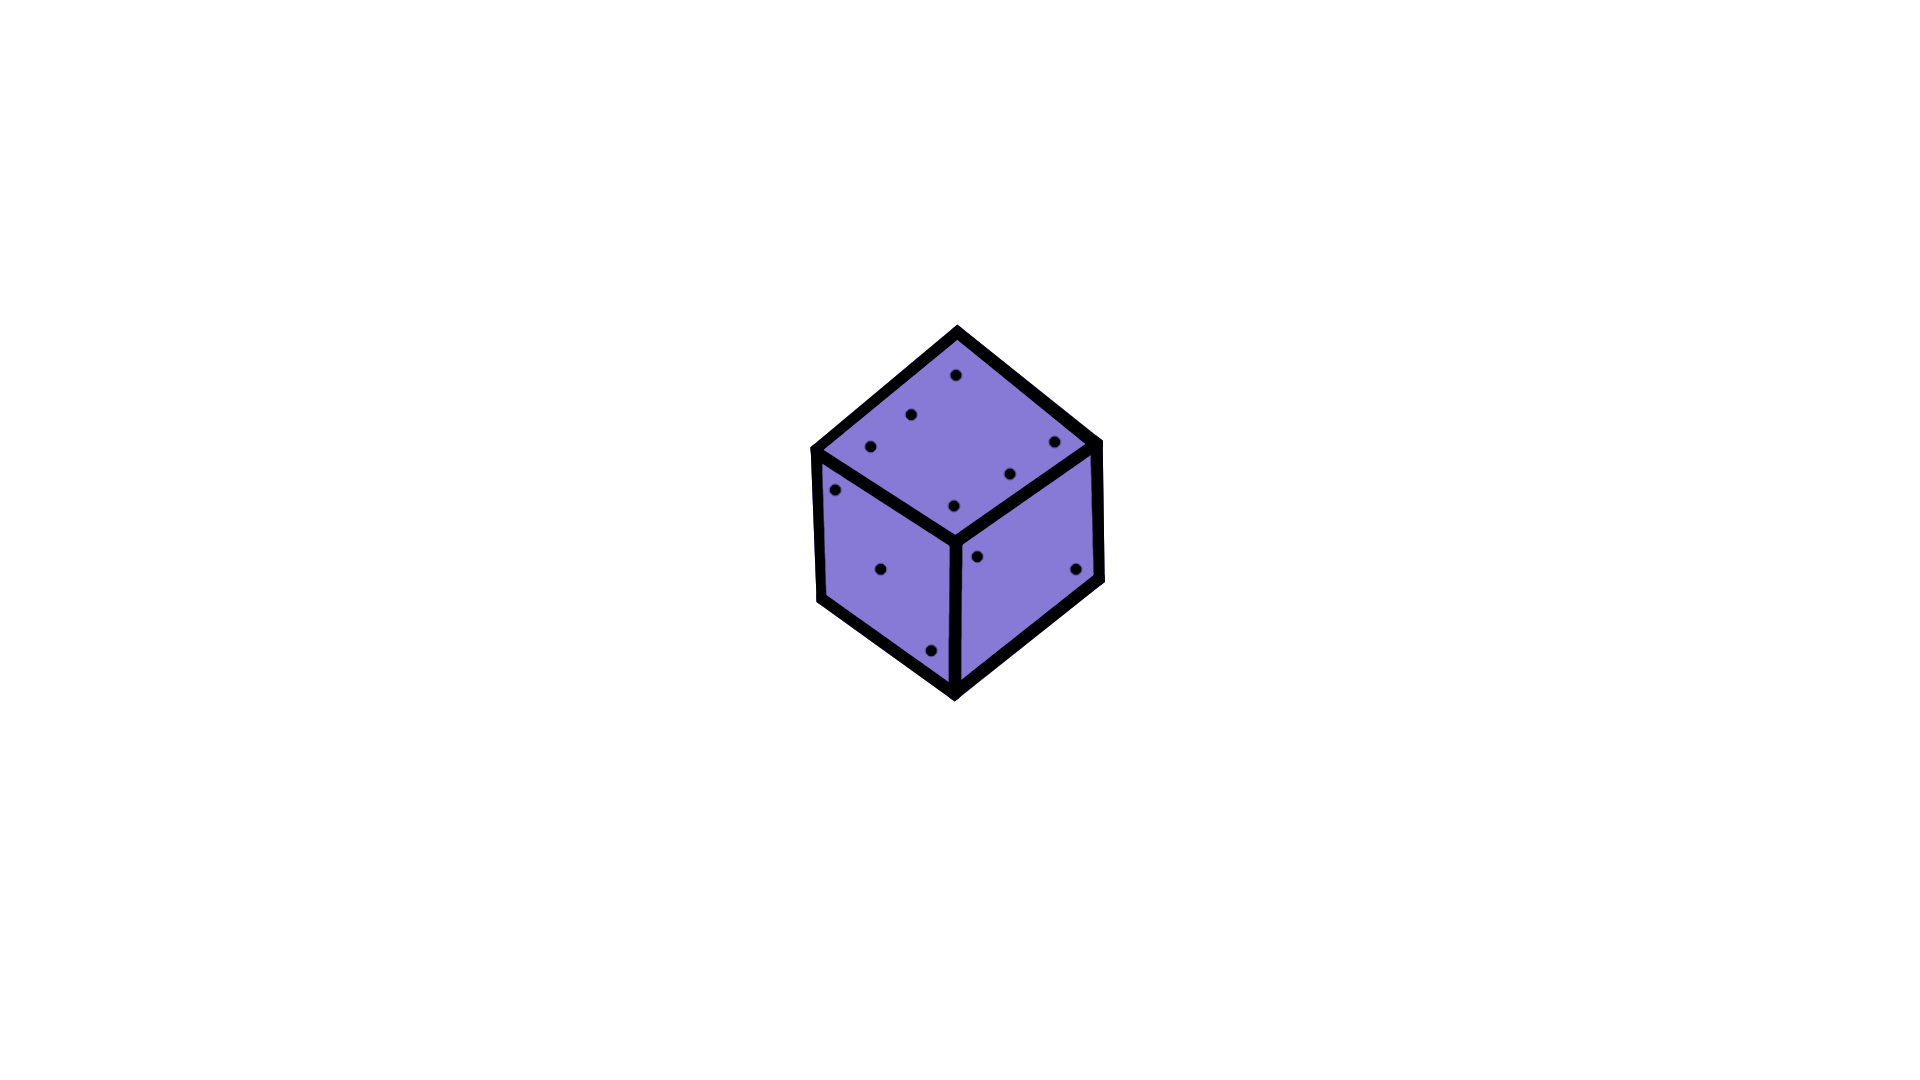
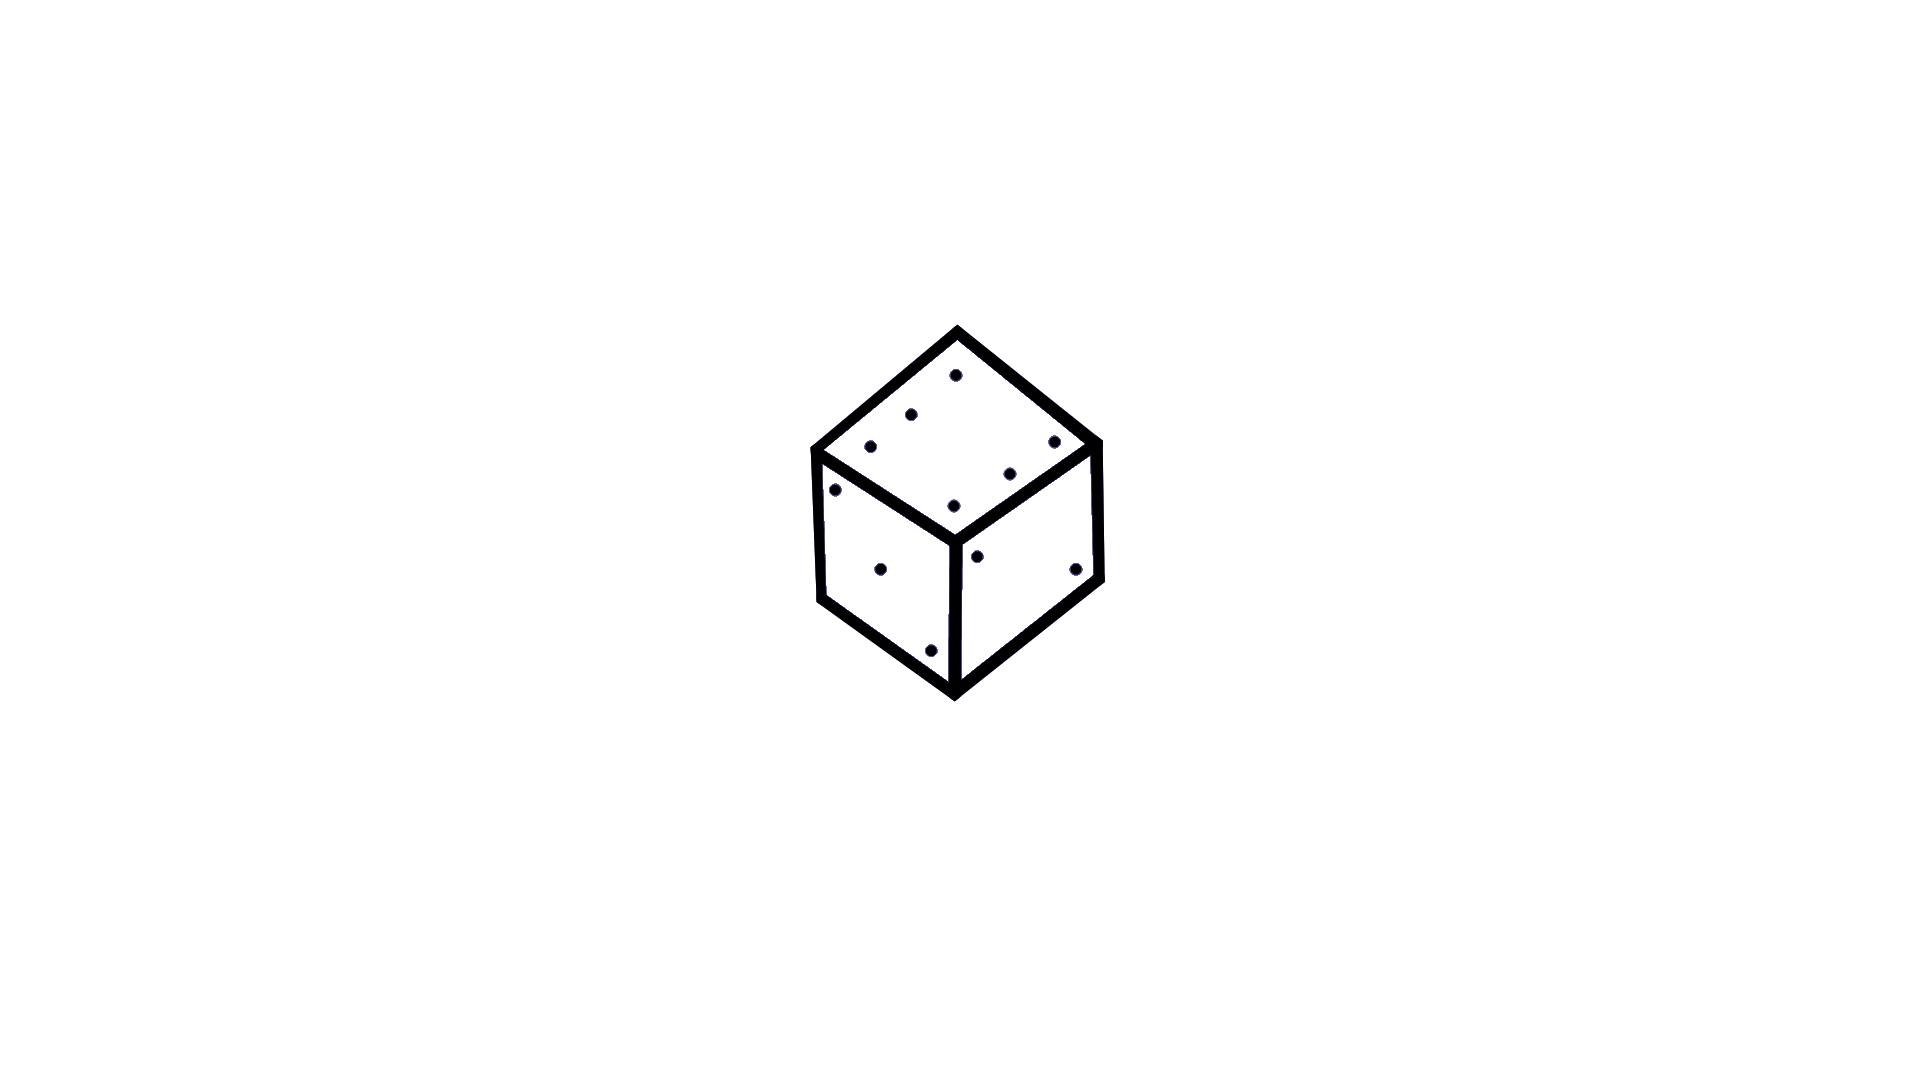
Die Color
Plants will now produce dice of random colors. 6 colors: the primaries and their combinations

Changed region(s): [[0.4062, 0.3056, 0.5938, 0.6417]]

diff --git a/dice-grower/src/graphics/scenes/MainScene.ts b/dice-grower/src/graphics/scenes/MainScene.ts
@@ -1,5 +1,6 @@
 import PlantModel from "../../models/PlantModel";
 import { ImageNames } from "../ImageNames";
+import { ColorNames } from "../ColorNames";
 import ScalableSprite from "./ScalableSprite";
 
  export default class MainScene extends Phaser.Scene {
@@ -69,6 +70,7 @@ import ScalableSprite from "./ScalableSprite";
 
 
 	private createPot(x: number): void {
+		const colors: number[] = [ColorNames.RED, ColorNames.GREEN, ColorNames.BLUE, ColorNames.YELLOW, ColorNames.PURPLE, ColorNames.TEAL];
 		const stem: ScalableSprite = new ScalableSprite(this, x, this.screenBottom, ImageNames.STEM, .2);
 		const pot: ScalableSprite = new ScalableSprite(this, x, this.screenBottom, ImageNames.POT, .2);
 		let die: ScalableSprite;
@@ -93,8 +95,8 @@ import ScalableSprite from "./ScalableSprite";
 			if (stem.height > 300) {
 				if (die === undefined) {
 					die = new ScalableSprite(this, x, this.screenBottom - 20 - stem.height, ImageNames.DIE, .1);
+					die.display.setTint(colors[Math.floor((Math.random() * colors.length))])
 					console.log(this.text)
-					this.text.setText('Drag the die to move them around!')
 					this.input.setDraggable(die.display);
 
 					// die.display.setY(this.screenBottom - 50 - stem.height)

diff --git a/dice-grower/src/graphics/ColorNames.ts b/dice-grower/src/graphics/ColorNames.ts
@@ -1,0 +1,9 @@
+export enum ColorNames
+{
+    RED = 0xff0000,
+    GREEN = 0x0ff000,
+    BLUE = 0x0000ff,
+    YELLOW = 0xffff00,
+    PURPLE = 0xff00ff,
+    TEAL = 0x00ffff
+}
